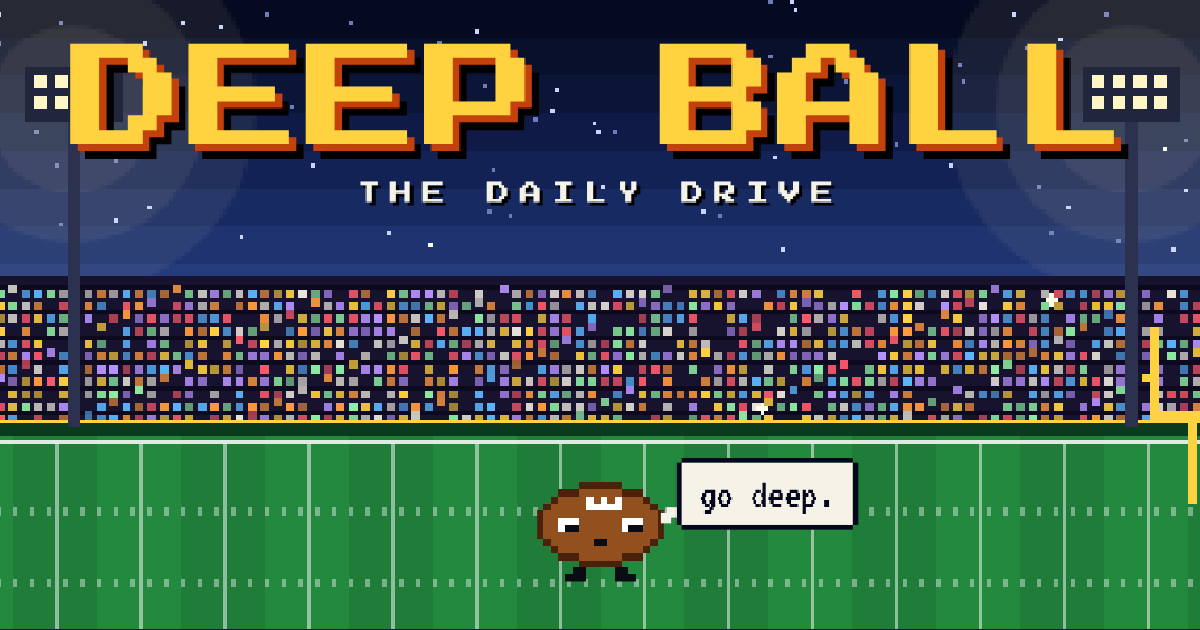
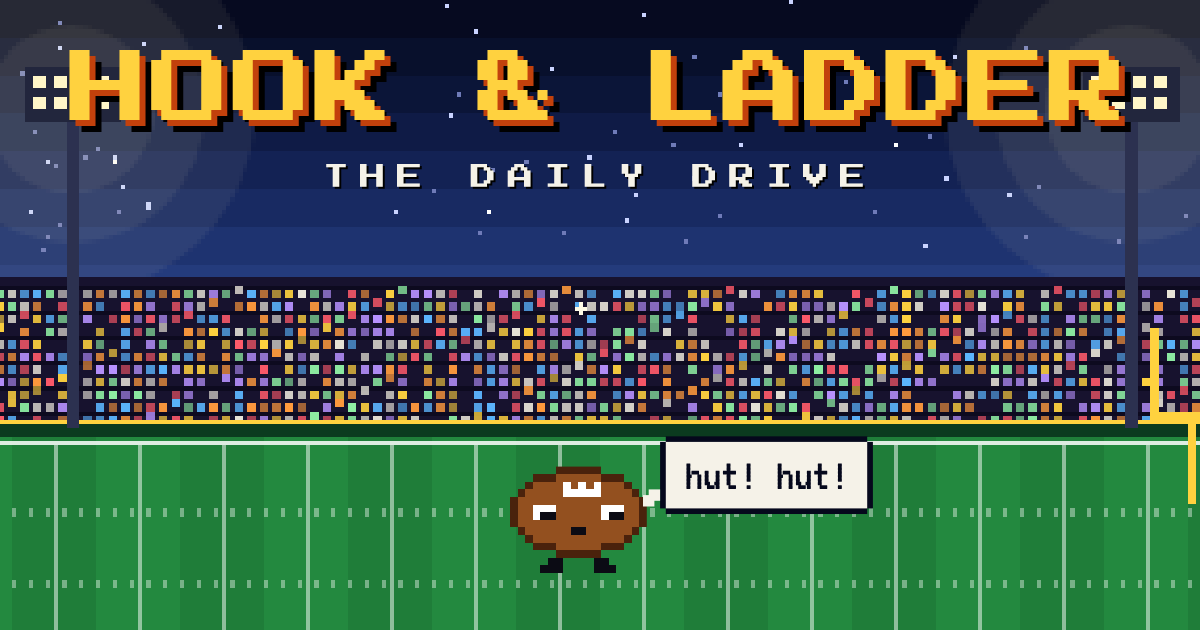
Rename the game to Hook & Ladder
Deep Ball is already taken by another NFL trivia game, so the title,
share text, invite text, page title, link preview and README now use
Hook & Ladder. Saved progress and the daily schedule are unchanged.

Claude-Session: https://claude.ai/code/session_014zxsWePDY4gDyE79mAN28k

diff --git a/index.html b/index.html
@@ -3,9 +3,9 @@
 <head>
 <meta charset="utf-8">
 <meta name="viewport" content="width=device-width, initial-scale=1">
-<title>Deep Ball</title>
-<meta name="description" content="Deep Ball: the daily NFL trivia game where the obvious answer is a kneel-down. Seven plays, a 25-second play clock, and rare answers gain big yards.">
-<meta property="og:title" content="Deep Ball">
+<title>Hook &amp; Ladder</title>
+<meta name="description" content="Hook &amp; Ladder: the daily NFL trivia game where the obvious answer is a kneel-down. Seven plays, a 25-second play clock, and rare answers gain big yards.">
+<meta property="og:title" content="Hook &amp; Ladder">
 <meta property="og:description" content="The daily NFL trivia game where the obvious answer is a kneel-down.">
 <meta property="og:type" content="website">
 <meta property="og:url" content="https://deepball5.github.io/">
@@ -78,7 +78,7 @@ button{font:inherit;color:inherit}
 .hero{position:relative;margin:0 -16px}
 #hero{display:block;width:100%;height:auto;image-rendering:pixelated}
 .title{position:absolute;left:0;right:0;top:7%;text-align:center}
-.title h1{margin:0;font:clamp(32px,8.6vw,68px)/1 var(--pixel);color:var(--gold);letter-spacing:.02em;text-shadow:4px 4px 0 #c2410c,8px 8px 0 #000}
+.title h1{margin:0;font:clamp(18px,6.2vw,50px)/1 var(--pixel);color:var(--gold);letter-spacing:.02em;text-shadow:4px 4px 0 #c2410c,8px 8px 0 #000}
 .kicker{margin:14px 0 0;font:clamp(9px,1.7vw,13px)/1 var(--pixel);letter-spacing:.42em;color:var(--chalk);text-shadow:2px 2px 0 #000}
 .hero .buddy{position:absolute;left:50%;bottom:7%;transform:translateX(-36px)}
 .tagline{margin:0;text-align:center;font-size:26px;color:var(--dim)}
@@ -236,7 +236,7 @@ button{font:inherit;color:inherit}
 <div id="confetti" aria-hidden="true"></div>
 <div class="modal" id="modal" hidden><div class="sheet frame" id="sheet" role="dialog" aria-modal="true" aria-labelledby="sheet-title"></div></div>
 <script>
-/* Deep Ball — answer banks. Current through Super Bowl LX (Feb 2026), the 2025 season and the 2026 draft.
+/* Hook & Ladder — answer banks. Current through Super Bowl LX (Feb 2026), the 2025 season and the 2026 draft.
    Tiers: K Kneel-Down, S Screen Pass, P Play-Action, F Flea Flicker, H Hail Mary, C Too Cute.
    Answer strings are "Display|alias|alias". Team prompts list team ids. */
 
@@ -599,7 +599,7 @@ PROMPTS.push(
 );
 
 
-/* Deep Ball v3 — broad player prompts. Bank strings are ';'-separated "Display|alias" entries. */
+/* Hook & Ladder — broad player prompts. Bank strings are ';'-separated "Display|alias" entries. */
 PROMPTS.push(
 /* ---------- Positions ---------- */
 { id:'pos_qb', fam:'pos_qb', sub2:'pos', kind:'person', q:'Name an NFL quarterback.', sub:'Any era. Stars, starters, backups.',
@@ -800,7 +800,7 @@ for (const p of PROMPTS){
   }
 })();
 
-/* Deep Ball — full NFL draft classes (source: nflverse draft_picks, from Pro Football Reference). Tiers ranked by career value, accolades and draft slot. */
+/* Hook & Ladder — full NFL draft classes (source: nflverse draft_picks, from Pro Football Reference). Tiers ranked by career value, accolades and draft slot. */
 PROMPTS.push(
 {"id": "draft2008", "fam": "draftclass", "sub2": "draft", "cat": "player", "kind": "person", "q": "Name a player drafted in the 2008 NFL Draft.", "sub": "Any round, any position. All 252 picks count.", "a": {"K": ["Matt Ryan", "Calais Campbell", "Joe Flacco", "Chris Johnson", "Aqib Talib", "Jamaal Charles", "DeSean Jackson", "Matt Forte"], "S": ["Ray Rice", "Jerod Mayo", "Jordy Nelson", "Chris Long", "Dominique Rodgers-Cromartie", "Jonathan Stewart", "Matthew Slater", "Darren McFadden", "Duane Brown", "Glenn Dorsey", "Jake Long", "Cliff Avril", "Curtis Lofton", "Pierre Garcon", "Brandon Carr", "Ryan Clady", "Brandon Flowers", "Ahtyba Rubin", "Mike Jenkins", "Josh Sitton", "Martellus Bennett", "Kendall Langford"], "P": ["Leodis McKelvin", "Rashard Mendenhall", "Thomas DeCoud", "Felix Jones", "Antoine Cason", "Chad Henne", "Sedrick Ellis", "Eddie Royal", "Keith Rivers", "Jason Jones", "Erik Walden", "Justin Forsett", "Dustin Keller", "Tracy Porter", "Dwight Lowery", "Stevie Johnson", "Harry Douglas", "William Hayes", "Carl Nicks", "Red Bryant", "Kenny Phillips", "Philip Wheeler", "Geno Hayes", "Cary Williams", "Branden Albert", "Lawrence Jackson", "Gosder Cherilus", "Derrick Harvey", "Charles Godfrey", "Pat Sims", "Jermichael Finley", "Tyvon Branch", "Letroy Guion", "Donnie Avery", "Orlando Scandrick", "Tim Hightower", "Nick Hayden", "John Sullivan", "Kroy Biermann", "Jeremy Zuttah", "Jerome Simpson", "Terrell Thomas", "Mario Manningham", "Quentin Groves", "Steve Slaton"], "F": ["Quintin Demps", "Sam Baker", "Kentwan Balmer", "John Carlson", "Jacob Tamme", "Josh Morgan", "Peyton Hillis", "Vernon Gholston", "Kevin Smith", "Earl Bennett", "Fred Davis", "Gary Barnidge", "Josh Johnson", "Chris Williams", "Joe Mays", "Matt Flynn", "Ryan Mundy", "Mike Pollak", "Breno Giacomini", "Kory Lichtensteiger", "Tyrell Johnson", "Brian Brohm", "Zackary Bowman", "King Dunlap", "John Greco", "Chilo Rachal", "Dan Connor", "Jeff Otah", "Mike McGlynn", "Andre Caldwell", "Tashard Choice", "Trevor Laws", "Tom Zbikowski", "Dennis Dixon", "Chad Rinehart", "Mackenzy Bernadeau", "Phillip Merling", "Early Doucet", "Kevin O'Connell", "Trevor Scott", "Andy Studebaker", "Chris Chamberlain", "Tavares Gooden", "Jonathan Wilhite", "John David Booty", "Erik Ainge", "Colt Brennan", "Andre Woodson", "Haruki Nakamura", "Larry Grant", "Alex Brink", "Devin Thomas", "Pat Lee", "Andre Fluellen", "Justin King", "Jonathan Goff", "Rob Jackson", "Barry Richardson", "Geoff Schwartz", "Malcolm Kelly", "Reggie Corner", "Jerome Felton", "Corey Lynch", "Chris Horton", "David Vobora", "Anthony Collins", "Donald Thomas", "Jordon Dizon", "Jacob Hester", "Marcus Harrison"], "H": ["Bryan Kehl", "Lavelle Hawkins", "Kareem Moore", "Chaz Schilens", "James Hardy", "Limas Sweed", "Terrence Wheatley", "Reggie Smith", "Craig Stevens", "Craig Steltz", "Justin Tryon", "Cody Wallace", "Nate Garner", "Demetress Bell", "Oniel Cousins", "Dexter Jackson", "Chevis Jackson", "Antwaun Molden", "Ryan Torain", "Kellen Davis", "Dominique Barber", "Spencer Larsen", "Jamey Richard", "DaJuan Morgan", "Xavier Adibi", "Landon Cohen", "Brandon Keith", "Chris Ellis", "Brad Cottam", "Keenan Burton", "Stanford Keglar", "Frank Okam", "Mike Hart", "Lex Hilliard", "Josh Barrett", "Alex Hall", "Mike Gibson", "Bryan Smith", "Kenny Iwebema", "Jack Williams", "Derek Fine", "Tom Santi", "Kennard Cox", "Tony Hills", "Shawn Crable", "Bruce Davis", "Jeremy Thompson", "Will Franklin", "Dre Moore", "Kenny Moore", "Robert James", "DeMario Pressley", "Thomas Williams", "Marcus Howard", "Owen Schmitt", "Jalen Parmele", "Brett Swain", "Hilee Taylor", "Adrian Arrington", "Joey LaRocque", "David Hale", "Steve Justice", "Beau Bell", "Marcus Smith", "Shawn Murphy", "Martin Rucker", "Arman Shields", "Jack Ikegwuonu", "Jason Shirley", "Alvin Bowen", "Carlton Powell", "Roy Schuening", "Trae Williams", "Marcus Thomas", "Durant Brooks", "Marcus Henry", "Thomas Brown", "Taylor Mehlhaff", "Xavier Omon", "Kevin Robinson", "Chris Harrington", "Mike Humpal", "Tyler Schmitt", "Paul Hubbard", "DeJuan Tribble", "Jaymar Johnson", "Bo Ruud", "Robert Henderson", "Matt Sherry", "Ervin Baldwin", "Brian Johnston", "Wilrey Fontenot", "Chauncey Washington", "Justin Harper", "Caleb Campbell", "Chester Adams", "Keith Zinger", "Corey Clark", "Brandon Coutu", "Cory Boyd", "Mike Merritt", "Allen Patrick", "Angelo Craig", "Lionel Dotson", "Mario Urrutia", "Kirk Barton", "Marcus Monk"]}},
 {"id": "draft2009", "fam": "draftclass", "sub2": "draft", "cat": "player", "kind": "person", "q": "Name a player drafted in the 2009 NFL Draft.", "sub": "Any round, any position. All 256 picks count.", "a": {"K": ["Matthew Stafford", "LeSean McCoy", "Clay Matthews", "Malcolm Jenkins", "Brian Orakpo", "Mark Sanchez", "Brian Cushing", "Vontae Davis"], "S": ["Michael Crabtree", "Josh Freeman", "Jeremy Maclin", "Mike Wallace", "Percy Harvin", "Alex Mack", "Connor Barwin", "Julian Edelman", "Jared Cook", "Tyson Jackson", "Jairus Byrd", "James Laurinaitis", "Glover Quin", "Michael Johnson", "Hakeem Nicks", "Rey Maualuga", "B.J. Raji", "Evander Hood", "Kenny Britt", "Knowshon Moreno", "Max Unger", "DeAndre Levy"], "P": ["Jason McCourty", "Patrick Chung", "Sean Smith", "Robert Ayers", "Aaron Curry", "William Moore", "Donald Brown", "Mike Mitchell", "Terrance Knighton", "Darrius Heyward-Bey", "Lardarius Webb", "Brandon Pettigrew", "Captain Munnerlyn", "Paul Kruger", "Roy Miller", "Louis Vasquez", "Sen'Derrick Marks", "Brian Hartline", "T.J. Lang", "Jerraud Powers", "Rashad Jennings", "Eric Wood", "Louis Delmas", "Henry Melton", "Andy Levitre", "Sebastian Vollmer", "Beanie Wells", "Peria Jerry", "Darius Butler", "Rashad Johnson", "Clinton McDonald", "Michael Oher", "Andre Smith", "Bradley Fletcher", "Johnny Knox", "Fili Moala", "Shonn Greene", "Matt Shaughnessy", "Keenan Lewis", "Ricky Jean-Francois", "Jason Smith", "Eugene Monroe", "Phil Loadholt", "Larry English", "Sherrod Martin"], "F": ["Derek Cox", "Mike Thomas", "Sammie Lee Hill", "Greg Toler", "Jasper Brinkley", "Vance Walker", "Chris Clemons", "Matt Slauson", "Aaron Maybin", "Louis Murphy", "Will Beatty", "Austin Collie", "Brice McCain", "Brad Jones", "Moise Fokou", "Brandon Tate", "Brandon Gibson", "Pat McAfee", "Pat White", "Mohamed Massaquoi", "Thomas Morstead", "Jamarca Sanford", "A.Q. Shipley", "Kraig Urbik", "Ryan Succop", "Alphonso Smith", "Kaluka Maiava", "E.J. Biggers", "Eben Britton", "Kevin Huber", "Chris Owens", "Stephen McGee", "Vaughn Martin", "Don Carey", "Zach Miller", "Curtis Painter", "Brandon Myers", "Ron Brace", "Everette Brown", "Keith Null", "David Bruton", "Rhett Bomar", "Nate Davis", "Tom Brandstater", "Mike Teel", "Asher Allen", "Cedric Peerman", "Bernard Scott", "LaRod Stephens-Howling", "Tiquan Underwood", "Garrett Reynolds", "Lance Louis", "Brian Robiskie", "Darcel McBath", "Kyle Moore", "William Middleton", "Jarius Wynn", "Clint Sintim", "Mike Goodson", "Andre Brown", "Gerald McRath", "James Casey", "Chris Ogbonnaya", "Tyronne Green", "Jamon Meredith", "David Veikune", "Ramses Barden", "Victor Butler", "D.J. Moore", "Antoine Caldwell"], "H": ["Paul Fanaika", "Cody Brown", "Richard Quinn", "Jason Williams", "Deon Butler", "Ryan Mouton", "Darell Scott", "Lawrence Sidbury", "Nic Harris", "Javon Ringer", "Al Afalava", "Ellis Lankster", "Troy Nolan", "Sammie Stroughter", "Courtney Greene", "Kevin Barnes", "Donald Washington", "Jarett Dillard", "Morgan Trent", "Kevin Ellison", "Rich Ohrnberger", "Andrew Gardner", "Alex Magee", "Glen Coffee", "Travis Beckum", "Jason Phillips", "Victor Harris", "Bear Pascoe", "Will Davis", "Myron Pryor", "David Johnson", "Nick Reed", "Patrick Turner", "Corvey Irvin", "Tyrone McKenzie", "Scott McKillop", "Brandon Hughes", "Cody Glenn", "Spencer Adkins", "Brandon Underwood", "Aaron Brown", "John Phillips", "Zack Follett", "Cameron Morrah", "Seth Olsen", "Colin Brown", "Jarron Gilbert", "Robert Brewster", "Derrick Williams", "Chase Coffman", "Juaquin Iglesias", "Stanley Arnoux", "Shawn Nelson", "Tony Fiammetta", "DeAngelo Smith", "Joe Burnett", "Frank Summers", "Cary Harris", "Coye Francies", "James Davis", "Nick Schommer", "Dan Gronkowski", "David Buehler", "Lydon Murtha", "Jonathan Luigs", "Jake Ingram", "Jaimie Thomas", "Chip Vaughn", "Brandon Williams", "Anthony Hill", "Slade Norris", "Gartrell Johnson", "Troy Kropog", "Terrance Taylor", "Kenny McKinley", "Quinn Johnson", "Davon Drew", "Cornelius Ingram", "Marcus Freeman", "Xavier Fulton", "Fenuki Tupou", "Brooks Foster", "John Nalbone", "Duke Robinson", "Michael Hamlin", "Herman Johnson", "George Bussey", "Quinten Lawrence", "Robert Henson", "Stephen Hodge", "Stryker Sulak", "DeAndre Wright", "Ra'Shon Harris", "Dominique Edison", "Javarris Williams", "J.D. Folsom", "Fui Vakapuna", "Curtis Taylor", "Eddie Williams", "Demetrius Byrd", "Blake Schlueter", "Mike Mickens", "Manuel Johnson", "Darryl Richard", "Jake O'Connell", "Stoney Woodson", "Ryan Durand", "Marko Mitchell", "Derek Kinder", "Freddie Brown", "Trevor Canfield"]}},
@@ -823,7 +823,7 @@ PROMPTS.push(
 {"id": "draft2026", "fam": "draftclass", "sub2": "draft", "cat": "player", "kind": "person", "q": "Name a player drafted in the 2026 NFL Draft.", "sub": "Any round, any position. All 257 picks count.", "a": {"K": ["Fernando Mendoza", "David Bailey", "Jeremiyah Love", "Carnell Tate", "Arvell Reese", "Ty Simpson", "Mansoor Delane", "Sonny Styles"], "S": ["Jordyn Tyson", "Caleb Downs", "Rueben Bain", "Kenyon Sadiq", "Caleb Banks", "Makai Lemon", "Akheem Mesidor", "Malachi Lawrence", "KC Concepcion", "Dillon Thieneman", "Chris Johnson", "Peter Woods", "Omar Cooper", "Keldric Faulk", "Jadarian Price", "Carson Beck", "Drew Allar", "Cade Klubnik", "Cole Payton", "Taylen Green", "Athan Kaliakmanis", "Behren Morton"], "P": ["Garrett Nussmeier", "Spencer Fano", "Francis Mauigoa", "Kadyn Proctor", "Olaivavega Ioane", "Blake Miller", "Monroe Freeling", "Max Iheanachor", "Keylan Rutledge", "Caleb Lomu", "De'Zhaun Stribling", "Chase Bisontis", "T.J. Parker", "Kayden McDonald", "Colton Hood", "Treydan Stukes", "Denzel Boston", "R Mason Thomas", "Cashius Howell", "Christen Miller", "Jacob Rodriguez", "Derrick Moore", "Zion Young", "Josiah Trotter", "Germie Bernard", "Avieon Terrell", "Lee Hunter", "D'Angelo Ponds", "Jake Golday", "Brandon Cisse", "CJ Allen", "Eli Stowers", "Gabe Jacas", "Nate Boerkircher", "Logan Jones", "Emmanuel McNeil-Warren", "Marlin Klein", "Anthony Hill", "Max Klare", "Davison Igbinosun", "Jake Slaughter", "Bud Clark", "Tyler Onyedim", "Keyron Crawford", "Markel Bell"], "F": ["Sam Roush", "Romello Height", "Antonio Williams", "Tacario Davis", "Oscar Delp", "Malachi Fields", "Caleb Douglas", "Chris McClellan", "A.J. Haulcy", "Zachariah Branch", "Ja'Kobi Lane", "Albert Regis", "Domonique Orange", "Chris Brazzell II", "Ted Hurst", "Daylen Everette", "Austin Barber", "Will Kacmarek", "Emmanuel Pregnon", "Zavion Thomas", "Kaelon Black", "Trey Zuhn", "Jaishawn Barham", "Keagen Trost", "Chris Bell", "Eli Raridon", "Gennings Dunker", "Caleb Tiernan", "Jakobe Thomas", "Julian Neal", "Jalen Huskey", "Jermod McCoy", "Jude Bowry", "Darrell Jackson Jr.", "Kaleb Proctor", "Brenen Thompson", "Febechi Nwaiwu", "Gracen Halton", "Jonah Coleman", "Jadon Canady", "Kage Casey", "Drew Shelton", "Jalen Farmer", "Devin Moore", "Elijah Sarratt", "Keionte Scott", "Travis Burke", "Jimmy Rolder", "Wesley Williams", "Dani Dennis-Sutton", "Kaden Wetjen", "Mike Washington Jr.", "Wade Woodaz", "Malik Muhammad", "Skyler Bell", "Kaleb Elarms-Orr", "Carver Willis", "Connor Lew", "Will Lee", "Trey Moore", "Genesis Smith", "Jeremiah Wright", "Matthew Hibner", "Kendal Daniels", "Bryce Boettcher", "Bryce Lance", "LT Overton", "Kyle Louis", "Ephesians Prysock", "Colbie Young"], "H": ["Kamari Ramsey", "Fernando Carmona", "Reggie Virgil", "Sam Hecht", "Nick Barrett", "Parker Brailsford", "Joshua Josephs", "Beau Stephens", "Justin Jefferson", "Dalton Johnson", "Zakee Wheatley", "Justin Joly", "Jager Burton", "Jaden Dugger", "DeMonte Capehart", "George Gumbs", "Keith Abney", "Michael Taaffe", "Max Bredeson", "Billy Schrauth", "Emmett Johnson", "Chandler Rivers", "Charles Demmings", "Tanner Koziol", "Nicholas Singleton", "Keyshaun Elliott", "Jalon Kilgore", "Kendrick Law", "Riley Nowakowski", "Joe Royer", "Karon Prunty", "Lorenzo Styles Jr.", "Josh Cuevas", "Adam Randall", "Hezekiah Masses", "Cyrus Allen", "Kevin Coleman", "Enrique Cruz Jr.", "Seydou Traore", "Zane Durant", "Karson Sharar", "Jackie Marshall", "Bauer Sharp", "Bobby Jamison-Travis", "Kaytron Allen", "Anez Cooper", "Brian Parker II", "Barion Brown", "Josh Cameron", "J.C. Davis", "Jack Kelly", "Pat Coogan", "Malik Benson", "Dametrious Crownover", "CJ Daniels", "Demond Claiborne", "Emmanuel Henderson Jr.", "DJ Campbell", "Domani Jackson", "Logan Taylor", "CJ Williams", "Lewis Bond", "Skyler Gill-Howard", "Alex Harkey", "Micah Morris", "Anterio Thompson", "Matt Gulbin", "Gabriel Rubio", "Ryan Eckley", "Namdi Obiazor", "Jordan van den Berg", "Caden Curry", "Harold Perkins", "Trey Smack", "Jayden Williams", "Anthony Smith", "TJ Hall", "Toriano Pride", "Jack Endries", "Tyre West", "Robert Spears-Jennings", "Jaren Kanak", "Landon Robinson", "Jackson Kuwatch", "VJ Payne", "Brandon Cleveland", "Eli Heidenreich", "Ethan Onianwa", "Tim Keenan", "Zach Durfee", "Gavin Gerhardt", "Andre Fuller", "Seth McGowan", "Max Llewellyn", "Tommy Doman", "Parker Hughes", "Ar'maj Reed-Adams", "Deven Eastern", "Aiden Fisher", "Cole Wisniewski", "Jam Miller", "Miles Scott", "Quintayvious Hutchins", "Carsen Ryan", "Rayshaun Benny", "Uar Bernard", "Keyshawn James-Newby", "Evan Beerntsen", "Deion Burks", "Michael Dansby", "Dallen Bentley", "Red Murdock"]}}
 );
 
-/* Deep Ball — scoring and answer matching */
+/* Hook & Ladder — scoring and answer matching */
 const TIER = {
   K:{ name:'Kneel-Down',   yds:1,  c:'var(--t-k)', e:'⬜', d:'The answer everybody gives.',
       note:'Everybody’s first thought. Safe, but it barely moves the chains.' },
@@ -989,7 +989,7 @@ function outcome(yds){
 }
 
 
-/* Deep Ball — interface (v2: retro arcade) */
+/* Hook & Ladder — interface (v2: retro arcade) */
 const $ = (s, r = document) => r.querySelector(s);
 const PMAP = Object.fromEntries(PROMPTS.map(p => [p.id, p]));
 const GAME_URL = (/^https?:$/.test(location.protocol) ? location.origin + location.pathname.replace(/index\.html$/, '') : '');
@@ -1201,7 +1201,7 @@ function viewHome(){
     : `<button class="btn big" id="go"><span class="blink">▶</span> ${started ? 'Resume drive' : 'Kick off'} <span class="blink">◀</span></button>`;
   return `<section class="home" style="display:flex;flex-direction:column;gap:22px">
     <div class="hero"><canvas id="hero" width="320" height="150" aria-hidden="true"></canvas>
-      <div class="title"><h1>DEEP BALL</h1><p class="kicker">THE DAILY DRIVE</p></div>
+      <div class="title"><h1>HOOK &amp; LADDER</h1><p class="kicker">THE DAILY DRIVE</p></div>
       ${buddy(done ? pick(LINES[o.k]) : pick(LINES.home))}
     </div>
     <p class="tagline">7 plays · 25-second play clock · rare answers gain big yards</p>
@@ -1276,7 +1276,7 @@ function scoreboard(g){
 }
 function shareText(g){
   const yds = yardsOf(g.ans), o = outcome(yds);
-  return `${S.mode === 'practice' ? 'Deep Ball practice' : `Deep Ball #${driveNo(g.date)}`} 🏈 ${o.label.toUpperCase()}\n${resultLine(yds)}\n${g.ans.map(a => TIER[a.tier].e).join('')}${GAME_URL ? '\n' + GAME_URL : ''}`;
+  return `${S.mode === 'practice' ? 'Hook & Ladder practice' : `Hook & Ladder #${driveNo(g.date)}`} 🏈 ${o.label.toUpperCase()}\n${resultLine(yds)}\n${g.ans.map(a => TIER[a.tier].e).join('')}${GAME_URL ? '\n' + GAME_URL : ''}`;
 }
 function answersHTML(p, mine){
   return '<div class="groups">' + RAREST_FIRST.map(t => {
@@ -1411,7 +1411,7 @@ function render(opts = {}){
     app.innerHTML = viewHome(); paintMascots(); startHero();
     $('#go').onclick = goGame;
     $('#archive').onclick = goArchive;
-    $('#invite').onclick = () => copyText(`Play Deep Ball with me: the daily NFL trivia game where the obvious answer is a kneel-down.${GAME_URL ? ' ' + GAME_URL : ''}`, () => { const b = $('#invite'); b.textContent = 'Link copied!'; setTimeout(() => { if ($('#invite')) $('#invite').textContent = 'Invite friends'; }, 1800); });
+    $('#invite').onclick = () => copyText(`Play Hook & Ladder with me: the daily NFL trivia game where the obvious answer is a kneel-down.${GAME_URL ? ' ' + GAME_URL : ''}`, () => { const b = $('#invite'); b.textContent = 'Link copied!'; setTimeout(() => { if ($('#invite')) $('#invite').textContent = 'Invite friends'; }, 1800); });
     $('#practice').onclick = startPractice;
     $('#stats').onclick = () => openSheet(statsHTML());
     $('#help').onclick = () => openSheet(helpHTML());

diff --git a/README.md b/README.md
@@ -1,4 +1,4 @@
-# Deep Ball
+# Hook & Ladder
 
 The daily NFL trivia game where the obvious answer is a kneel-down.
 
